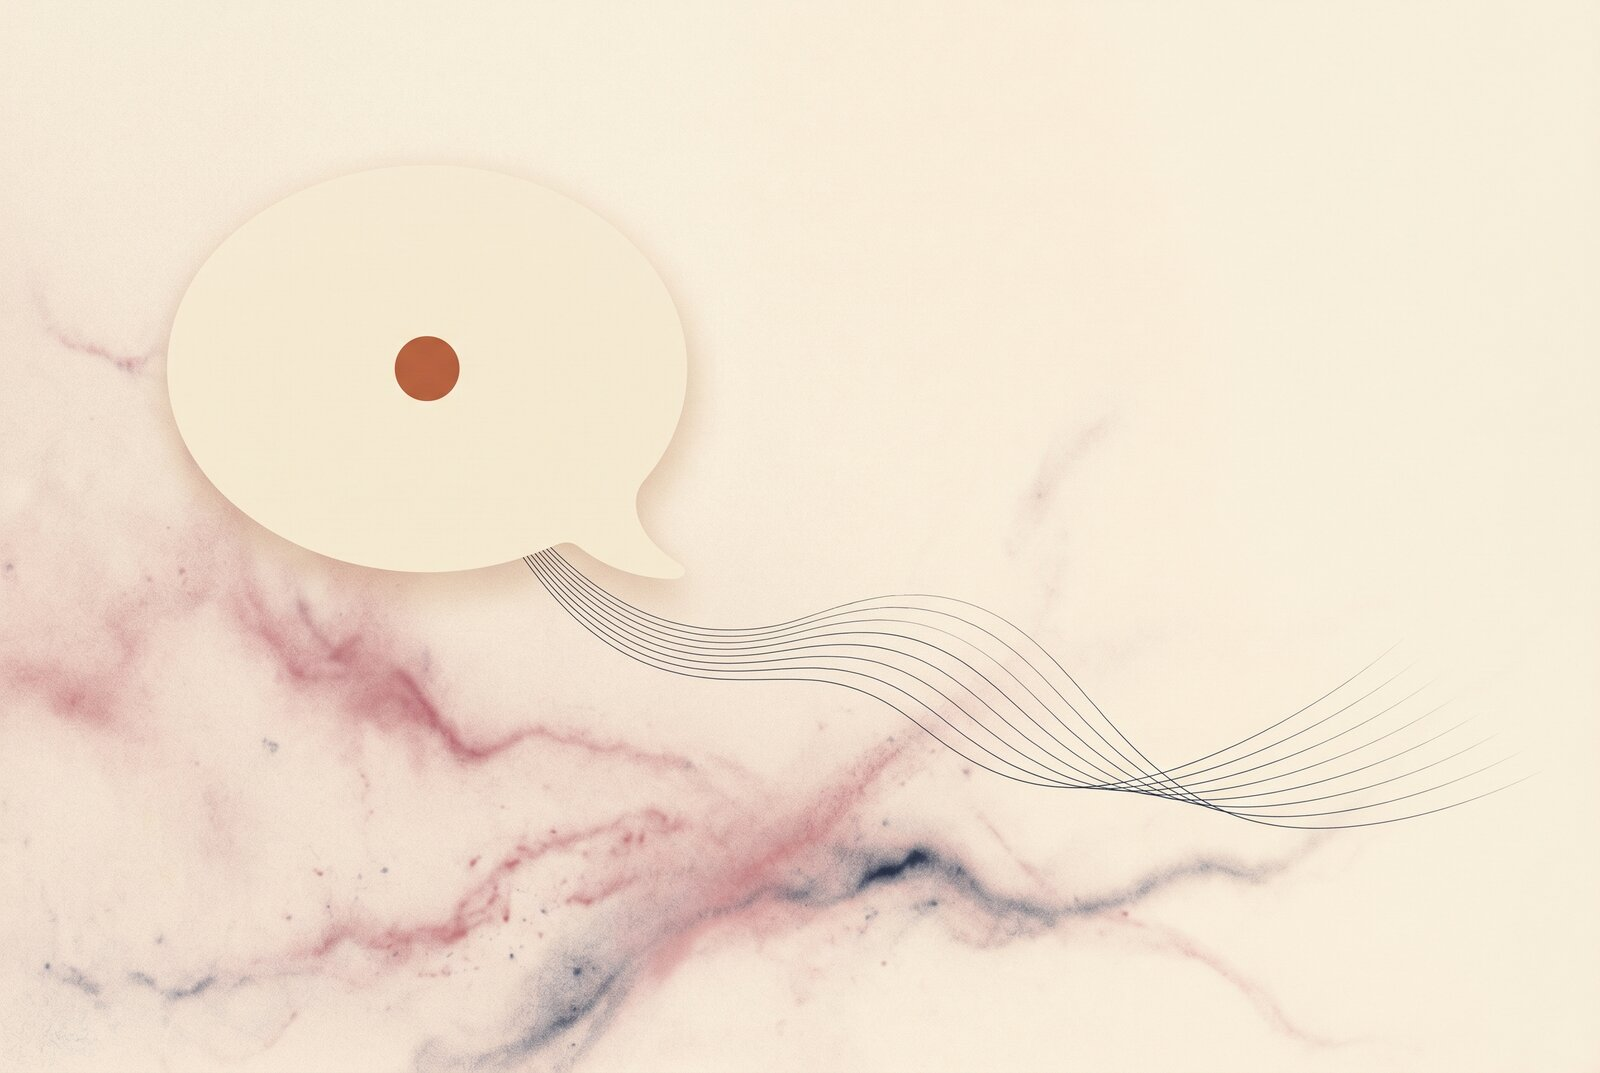
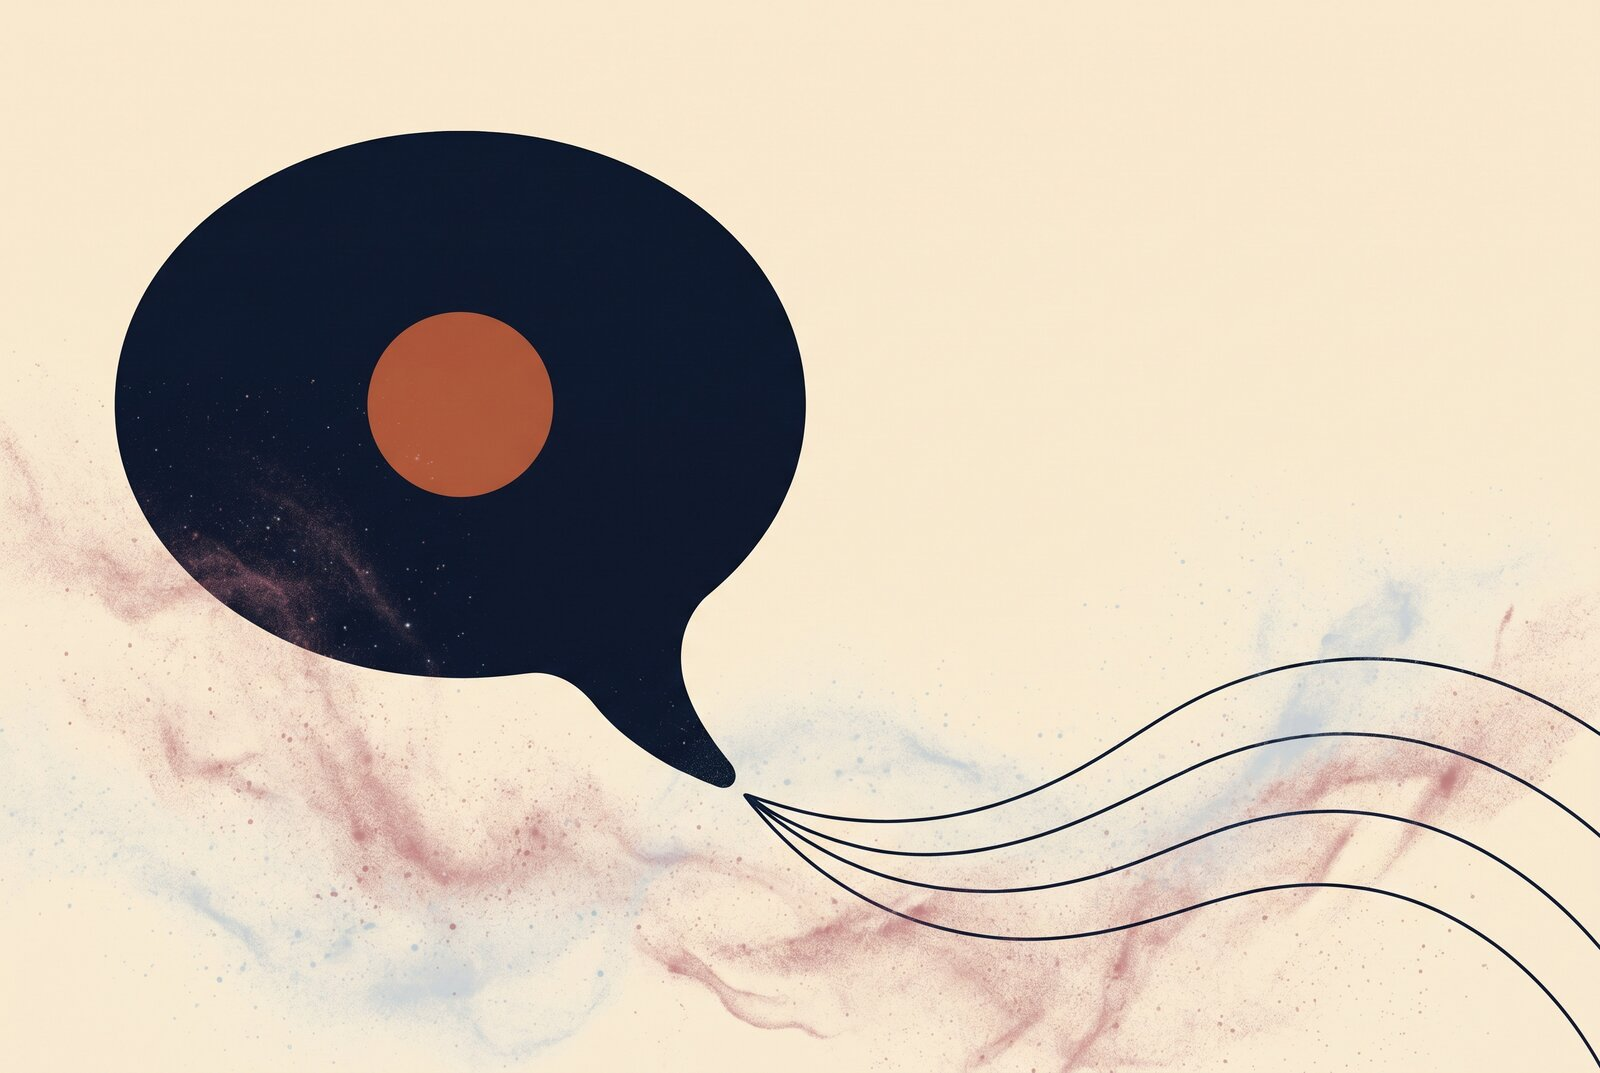
fix(theme): stronger glass lift + on-brand light hero
- Light hero replaced: navy bubble anchors composition with prominent
  terracotta dot; tiny-dot issue on v1 is resolved. Dust stays subtle.
- Light glass tokens: alpha bumped so cards lift cleanly above the
  cream #F3EAD3 body (was 0.55 -> 0.85 for card bg; nav/pill/elevated
  proportionally raised).
- Dark glass tokens: warm-black rgba(30,24,20,...) was left over from
  the pre-Antennae theme and produced no visible elevation on the new
  navy-900 body. Swapped to navy-500 tinted rgba(31,39,64,...) so
  cards read as lifted per BRAND.md (navy-700 card on navy-900 body).
- Dark --color-text-muted: #8A7860 (too dim on navy) -> #B8A595 for
  the "N members · agents · your role" meta line and inactive tab
  labels.

diff --git a/src/index.css b/src/index.css
@@ -52,18 +52,20 @@
 :root {
   color-scheme: light;
 
-  /* Glass surfaces (rgba so backdrop-filter still shines through) */
-  --glass-nav-bg: rgba(255, 255, 255, 0.65);
-  --glass-nav-border: rgba(255, 255, 255, 0.3);
-  --glass-card-bg: rgba(255, 255, 255, 0.55);
-  --glass-card-bg-hover: rgba(255, 255, 255, 0.75);
-  --glass-card-border: rgba(255, 255, 255, 0.6);
-  --glass-elevated-bg: rgba(255, 255, 255, 0.72);
-  --glass-elevated-border: rgba(255, 255, 255, 0.5);
-  --glass-pill-bg: rgba(255, 255, 255, 0.5);
-  --glass-pill-border: rgba(255, 255, 255, 0.4);
-  --glass-phone-bg: rgba(255, 255, 255, 0.6);
-  --glass-phone-border: rgba(255, 255, 255, 0.5);
+  /* Glass surfaces (rgba so backdrop-filter still shines through).
+   * Sitting on cream #F3EAD3 — plain white at higher alpha gives a
+   * paper-on-cream lift that actually reads. */
+  --glass-nav-bg: rgba(255, 255, 255, 0.78);
+  --glass-nav-border: rgba(255, 255, 255, 0.4);
+  --glass-card-bg: rgba(255, 255, 255, 0.85);
+  --glass-card-bg-hover: rgba(255, 255, 255, 0.95);
+  --glass-card-border: rgba(255, 255, 255, 0.7);
+  --glass-elevated-bg: rgba(255, 255, 255, 0.95);
+  --glass-elevated-border: rgba(255, 255, 255, 0.6);
+  --glass-pill-bg: rgba(255, 255, 255, 0.7);
+  --glass-pill-border: rgba(255, 255, 255, 0.5);
+  --glass-phone-bg: rgba(255, 255, 255, 0.85);
+  --glass-phone-border: rgba(255, 255, 255, 0.7);
 
   /* Shadow tints (black-on-light / black-on-dark feel) */
   --shadow-rgb: 0, 0, 0;
@@ -92,23 +94,23 @@ html[data-theme="dark"] {
     --color-surface-soft: #141828;
     --color-text-primary: #F3EAD3;
     --color-text-secondary: #D4C4A0;
-    --color-text-muted: #8A7860;
-    --color-border: #1F2740;
-    --color-border-light: #141828;
+    --color-text-muted: #B8A595;
+    --color-border: #2A3350;
+    --color-border-light: #1F2740;
     --color-brand-50: #2A1810;
     --color-brand-100: #3D2416;
 
-    /* Glass goes dark-tinted; keep backdrop-filter doing the heavy lift */
-    --glass-nav-bg: rgba(22, 18, 14, 0.72);
+    /* Glass goes navy-tinted so cards lift visibly above navy-900 body */
+    --glass-nav-bg: rgba(20, 24, 40, 0.78);
     --glass-nav-border: rgba(255, 255, 255, 0.06);
-    --glass-card-bg: rgba(30, 24, 20, 0.55);
-    --glass-card-bg-hover: rgba(38, 30, 24, 0.7);
+    --glass-card-bg: rgba(31, 39, 64, 0.7);
+    --glass-card-bg-hover: rgba(41, 49, 74, 0.85);
     --glass-card-border: rgba(255, 255, 255, 0.08);
-    --glass-elevated-bg: rgba(38, 30, 24, 0.72);
-    --glass-elevated-border: rgba(255, 255, 255, 0.08);
-    --glass-pill-bg: rgba(30, 24, 20, 0.5);
-    --glass-pill-border: rgba(255, 255, 255, 0.06);
-    --glass-phone-bg: rgba(30, 24, 20, 0.6);
+    --glass-elevated-bg: rgba(41, 49, 74, 0.82);
+    --glass-elevated-border: rgba(255, 255, 255, 0.1);
+    --glass-pill-bg: rgba(31, 39, 64, 0.6);
+    --glass-pill-border: rgba(255, 255, 255, 0.08);
+    --glass-phone-bg: rgba(31, 39, 64, 0.7);
     --glass-phone-border: rgba(255, 255, 255, 0.08);
 
     --shadow-rgb: 0, 0, 0;
